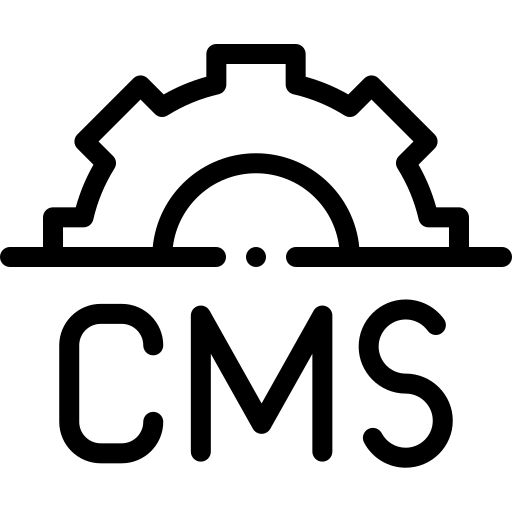
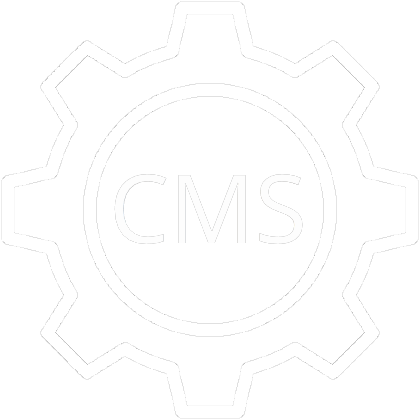
iconos nuevos

diff --git a/frontend/src/pages/about/components/WhyInnovados.jsx b/frontend/src/pages/about/components/WhyInnovados.jsx
@@ -11,7 +11,7 @@ import search from "../../../assets/whyInnovados/search.svg"
 
 const WhyInnovados = () => {
   return (
-    <div className="contenedorWhy">
+    <div className="contenedorWhy" id="sobrenosotros">
         <div className="izquierda">
             <h1>¿Por qué Innovados?</h1>
             <p>Nuestra empresa se dedica a ofrecer soluciones de software personalizadas y de alta calidad, con un enfoque exclusivo en el cliente. Además, nos aseguramos de cumplir con los plazos, brindamos soporte y mantenimiento, para asegurarnos de que nuestros clientes estén satisfechos con el producto final.</p>
@@ -69,54 +69,52 @@ const WhyInnovados = () => {
             </div>
 ***/}
             {/*** QUINTA Tarjeta ***/}
-        <div className="derechaDiv">
-            <div className="">
-                <img src={responsive} alt="Ilustración de Adaptación" className="imagen" />
+            <div className="derechaDiv">
+                <div className="">
+                    <img src={responsive} alt="Ilustración de Adaptación" className="imagen" />
+                </div>
+                <div className=''>
+                    <p className="derechaP">
+                        Páginas Web adaptativas
+                    </p>
+                </div>
             </div>
-            <div className=''>
-                <p className="derechaP">
-                    Páginas Web adaptativas
-                </p>
-            </div>
-        </div>
 
-        {/*** SEXTA Tarjeta ***/}
-        <div className="derechaDiv">
-            <div className="">
-                <img src={diseño} alt="Ilustración de diseño" className="imagen"/>
+            {/*** SEXTA Tarjeta ***/}
+            <div className="derechaDiv">
+                <div className="">
+                    <img src={diseño} alt="Ilustración de diseño" className="imagen"/>
+                </div>
+                <div className=''>
+                    <p className="derechaP">
+                        Diseño intuitivo y amigable
+                    </p>
+                </div>
             </div>
-            <div className=''>
-                <p className="derechaP">
-                    Diseño intuitivo y amigable
-                </p>
-            </div>
-        </div>
 
-        {/*** SEPTIMA Tarjeta ***/}
-        <div className="derechaDiv">
-            <div className="">
-                <img src={avion} alt="Ilustración de Velocidad" className="imagen"/>
+            {/*** SEPTIMA Tarjeta ***/}
+            <div className="derechaDiv">
+                <div className="">
+                    <img src={avion} alt="Ilustración de Velocidad" className="imagen"/>
+                </div>
+                <div className=''>
+                    <p className="derechaP">
+                        Velocidad y funcionalidad
+                    </p>
+                </div> 
             </div>
-            <div className=''>
-                <p className="derechaP">
-                    Velocidad y funcionalidad
-                </p>
-            </div> 
-        </div>
 
-        {/*** OCTAVA Tarjeta ***/}
-        <div className="derechaDiv">
-            <div className="">
-                <img src={search} alt="Ilustración de Optimización" className="imagenSEO"/>
+            {/*** OCTAVA Tarjeta ***/}
+            <div className="derechaDiv">
+                <div className="">
+                    <img src={search} alt="Ilustración de Optimización" className="imagenSEO"/>
+                </div>
+                <div className=''>
+                    <p className="derechaP">
+                        Posicionamiento SEO
+                    </p>
+                </div>
             </div>
-            <div className=''>
-                <p className="derechaP">
-                    Posicionamiento SEO
-                </p>
-            </div>
-        </div>
-
-
         </div>
     </div>
   )

diff --git a/frontend/src/pages/home/components/Presentation.jsx b/frontend/src/pages/home/components/Presentation.jsx
@@ -1,11 +1,11 @@
 import "../css/presentation.css"
 import { RiMailLine, RiAccountBoxLine, RiWhatsappLine } from "react-icons/ri";
-import sitioweb from "../../../assets/www.png"
-import ecommerce from "../../../assets/ecommerce.png"
-import CMS from "../../../assets/CMSRed.png"
-import CRM from "../../../assets/CRMRedMinimalista.png"
-import ERP from "../../../assets/ERPRed.png"
-import apps from "../../../assets/appsRed.png"
+import sitioweb from "../../../assets/assetsPresentation/WWW.png"
+import ecommerce from "../../../assets/assetsPresentation/ecommerce.png"
+import CMS from "../../../assets/assetsPresentation/CMS2.png"
+import ERP from "../../../assets/assetsPresentation/ERP2.png"
+import CRM from "../../../assets/assetsPresentation/CRM2.png"
+import apps from "../../../assets/assetsPresentation/Apps.png"
 const Presentation = () => {
   return (
     <main className="contenedor">
@@ -19,37 +19,37 @@ const Presentation = () => {
                 <div className="contenedorTipos">
                     <div className="tiposDiv">
                         <div className="contenedorImg">
-                            <img src={sitioweb} className="img0 img1"  />
+                            <img src={sitioweb} className="img1"  />
                         </div>
                         <p>Sitios Web</p>
                     </div>
                     <div className="tiposDiv">
                         <div className="contenedorImg">
-                            <img src={CMS} className="img0 img2" />
+                            <img src={CMS} className="img2" />
                         </div>
                         <p>Gestión de Contenido</p>
                     </div>
                     <div className="tiposDiv">
                         <div className="contenedorImg">
-                            <img src={ERP} className="img0 img4" />
+                            <img src={ERP} className="img3" />
                         </div>
                         <p>Recursos Empresariales</p>
                     </div>
                     <div className="tiposDiv">
                         <div className="contenedorImg">
-                            <img src={CRM} className="img0 img3" />
+                            <img src={CRM} className="img4" />
                         </div>
                         <p>Relación con el Cliente</p>
                     </div>
                     <div className="tiposDiv">
                         <div className="contenedorImg">
-                            <img src={apps} className="img0 img5" />
+                            <img src={apps} className="img5" />
                         </div>
-                        <p>APPs</p>
+                        <p>Aplicaciones</p>
                     </div>
                     <div className="tiposDiv">
                         <div className="contenedorImg">
-                            <img src={ecommerce} className="img0 img6" />
+                            <img src={ecommerce} className="img6" />
                         </div>
                         <p>E-commerce</p>
                     </div>
@@ -103,7 +103,6 @@ const Presentation = () => {
                             className="botonPresupuesto"
                         />
                     </fieldset>
-                    
                 </fieldset>
             </form>
         </div>

diff --git a/frontend/src/shared/css/footer.css b/frontend/src/shared/css/footer.css
@@ -1,8 +1,12 @@
 .footer {
     background-color: #191d24;
     height: 20vh;
-    display: block;
-    padding: 4rem 0rem;
+    display: flex;
+    justify-content:space-between;
+    padding: 4rem 2rem;
+}
+.logoFooter{
+    text-align: center;
 }
 .logoFooter p {
     color: #bbb;
@@ -17,7 +21,12 @@
     margin: 0;
     font-size: 1.5rem;
 }
-
+.imgFooter{
+    width: 4rem;
+    margin-top: 3rem;
+    text-align: center;
+    opacity: 55%;
+}
 .linksDivFooter {
     display: block;
     gap: 1.3rem;
@@ -31,8 +40,9 @@
     font-size: 0.9rem;
     line-height: 2rem;
     font-family: "Chakra Petch";
-    display: flex;
-    align-items: center;
+    display: block;
+    text-align: center;
+    padding-top: 0.2rem;
     transition: all 300ms ease-in-out;
     font-family: "Open Sans", "sans-serif";
 }
@@ -53,7 +63,7 @@
     font-size: 0.9rem;
     line-height: 2rem;
     font-family: "Chakra Petch";
-    background-color: #ca252a81;
+    background-color: transparent;
     padding: 0rem 1.3rem;
     border-radius: 0.75rem;
     display: block;
@@ -61,7 +71,8 @@
     box-sizing: border-box;
     transition: all 300ms ease-in-out;
     font-family: "Open Sans", "sans-serif";
-    border: none;
+    border: 1px solid #ca252a81;
+    margin-top: 0.3rem;
 }
 
 .linkPresupuestoFooter:hover {
@@ -71,13 +82,18 @@
     cursor: pointer;
 }
 
-
+@media (min-width: 768px){
+    .footer{
+        padding: 4rem 4rem;
+    }
+}
 @media (min-width: 1024px) {
     .footer{
         padding: 4rem 8rem;
-        display: flex;
-        justify-content:space-between;
         height: 6vh;
+    }
+    .imgFooter{
+        display: none;
     }
     .linksDivFooter{
         display: flex;

diff --git a/frontend/src/pages/home/css/presentation.css b/frontend/src/pages/home/css/presentation.css
@@ -151,40 +151,39 @@ input:-webkit-autofill {
     align-items: center;
     grid-column: span 1 / span 1;
     transition: all 500ms;
-    filter: grayscale(20%) ;
+    opacity: 65%;
 }
 .tiposDiv:hover {
     transform: scale(1.2); 
     transition: all 500ms; 
-    filter: grayscale(10%);
+    opacity: 100%;
 }
 .tiposDiv div{
     height: 3.8rem;
 }
 
-.img0 {
-    opacity: 85%;
-}
+
 .img1 {
     width: 4rem;
 }
 .img2 {
-    transform: translatey(-0.15rem);
-    width: 4.2rem;
+    transform: translatey(0rem);
+    width: 4rem;
 }
 .img3 {
     width: 3.9rem;
 }
 .img4 {
-    transform: translatey(0.15rem);
-    width: 4.4rem;
+    transform: translatey(0rem);
+    width: 3.9rem;
 }
 .img5 {
     transform: translatey(0.1rem);
     width: 3.9rem;
 }
 .img6 {
-    width: 3.9rem;
+    transform: translatey(0.2rem);
+    width: 3.8rem;
 }
 
 .tiposDiv p{
@@ -237,6 +236,7 @@ input:-webkit-autofill {
     .descripciones {
         grid-column: span 7 / span 1; 
         font-size: 1.2rem;
+        padding-right: 1.5rem;
     }
     .contenedorTipos {
         grid-template-columns: repeat(6, minmax(0, 1fr));

diff --git a/frontend/src/shared/components/Footer.jsx b/frontend/src/shared/components/Footer.jsx
@@ -1,4 +1,5 @@
 import "../css/footer.css"
+import sitioweb from "../../assets/assetsPresentation/WWW.png"
 
 export const Footer = () => {
 
@@ -8,6 +9,9 @@ export const Footer = () => {
 
             <div className="logoFooter">
                 <p>Innova<span>dos</span></p>
+                <div className="contenedorImgFooter">
+                            <img src={sitioweb} className="imgFooter"  />
+                </div>
             </div>
 
             <div className="linksDivFooter">

diff --git a/frontend/src/pages/home/css/about.css b/frontend/src/pages/home/css/about.css
@@ -60,7 +60,7 @@
     font-size: 1.9rem;
     color: #fff;
     font-family: "Open Sans", "sans-serif";
-    font-weight: 400;
+    font-weight: 500;
 }
 .imagenPresupuesto p {
     text-align: center;
@@ -134,7 +134,7 @@
         padding: 2.5rem 19rem 1.5rem 19rem;
     }
     .imagenPresupuesto h1{
-        font-size: 2.5rem;
+        font-size: 2.1rem;
     }
     .imagenPresupuesto p{
         font-size: 1.2rem;

diff --git a/frontend/src/shared/components/Header.jsx b/frontend/src/shared/components/Header.jsx
@@ -29,9 +29,9 @@ export const Header = () => {
             </Link>
           </li>
           <li>
-            <Link className='links'>
+            <a href="#sobrenosotros" className='links'>
               Sobre Nosotros
-            </Link>
+            </a>
           </li>
           <li>
             <Link className='linkPresupuesto'>

diff --git a/frontend/src/pages/about/css/whyInnovados.css b/frontend/src/pages/about/css/whyInnovados.css
@@ -14,10 +14,14 @@
 }
 
 .izquierda p {
+    padding: 1rem 2rem 0 0;
     font-family: 'Poppins', sans-serif;
     font-weight: 300;
-    font-size: 1.1rem;
+    font-size: 1rem;
     color: #555;
+}
+.izquierda p:first-of-type{
+    padding-top: 0;
 }
 
 .derecha {

diff --git a/frontend/src/App.css b/frontend/src/App.css
@@ -1,4 +1,6 @@
-
+html {
+  scroll-behavior: smooth;
+}
 body {
   background-color: #d9d7d2;
   padding: 0;
